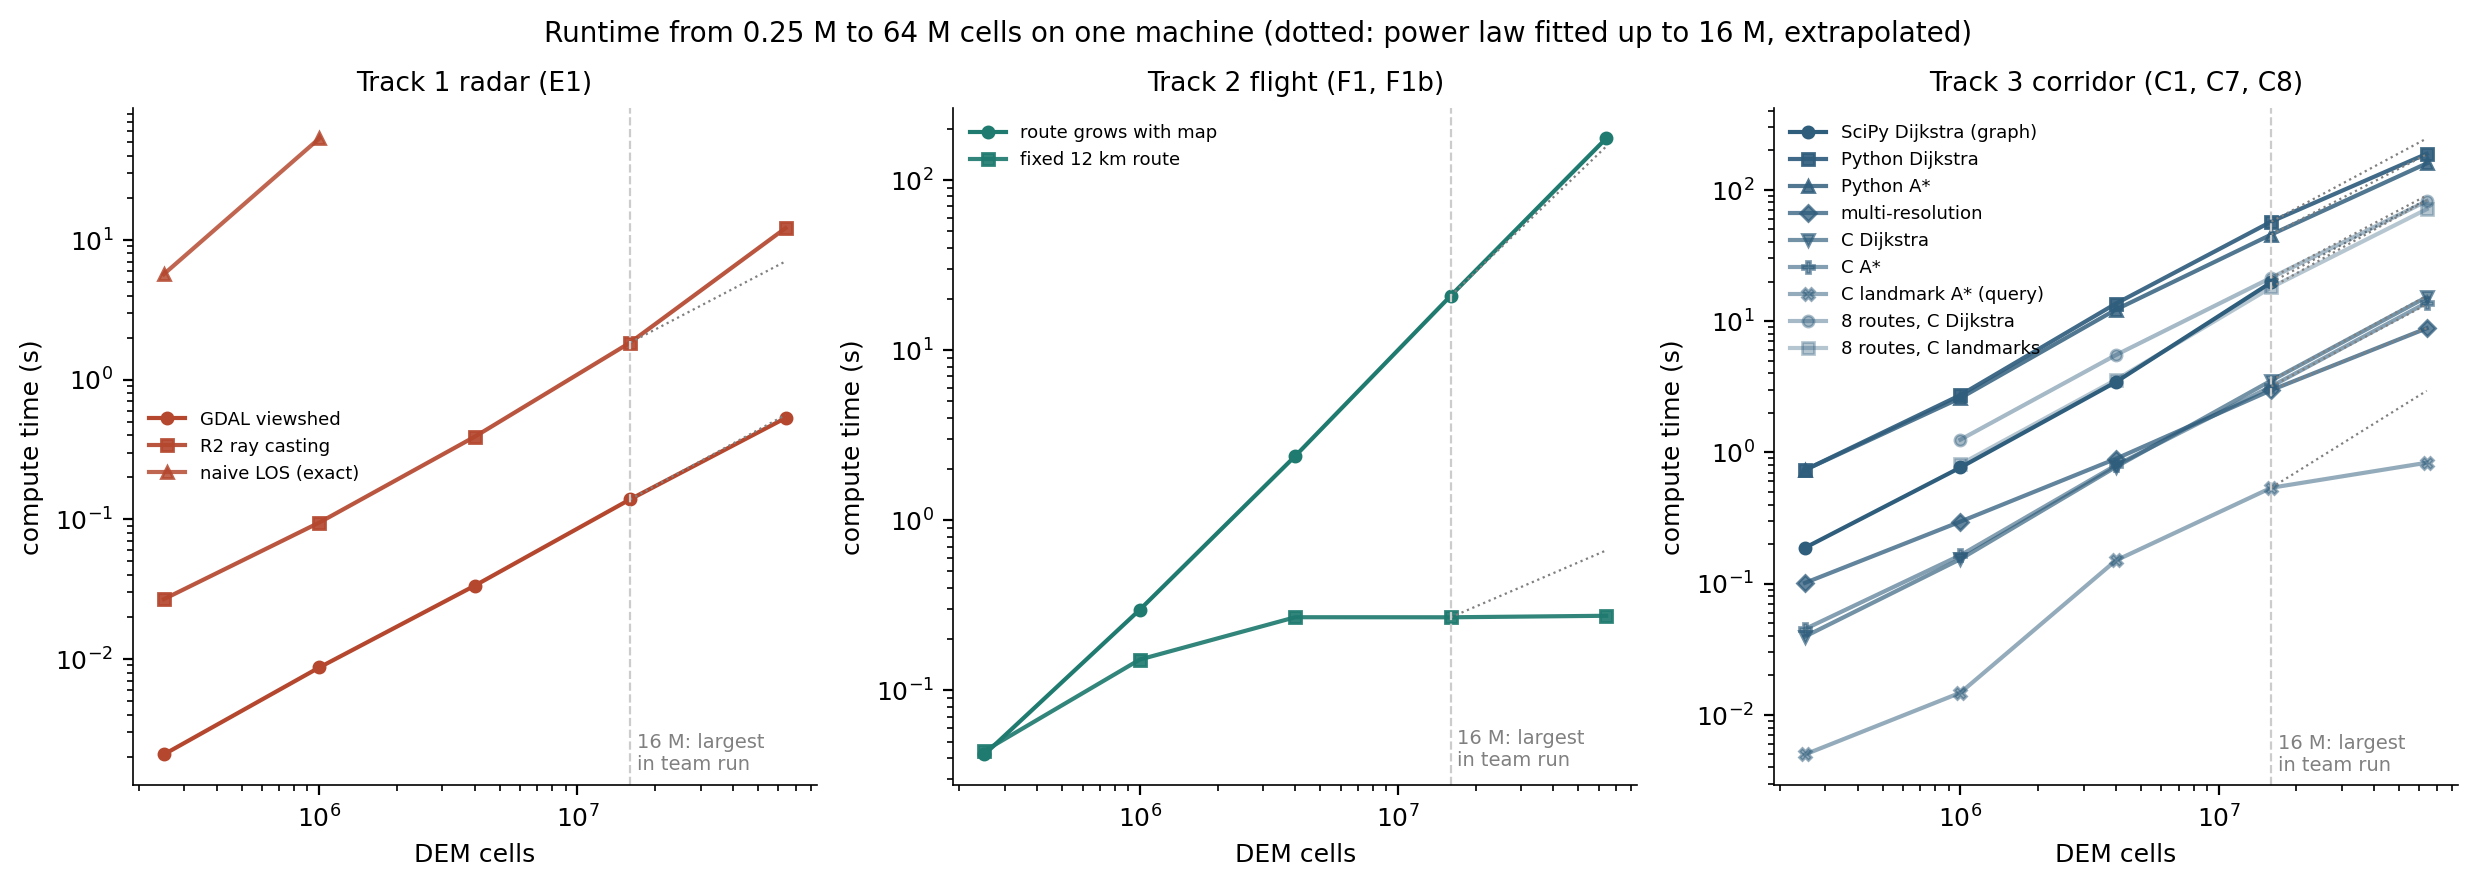
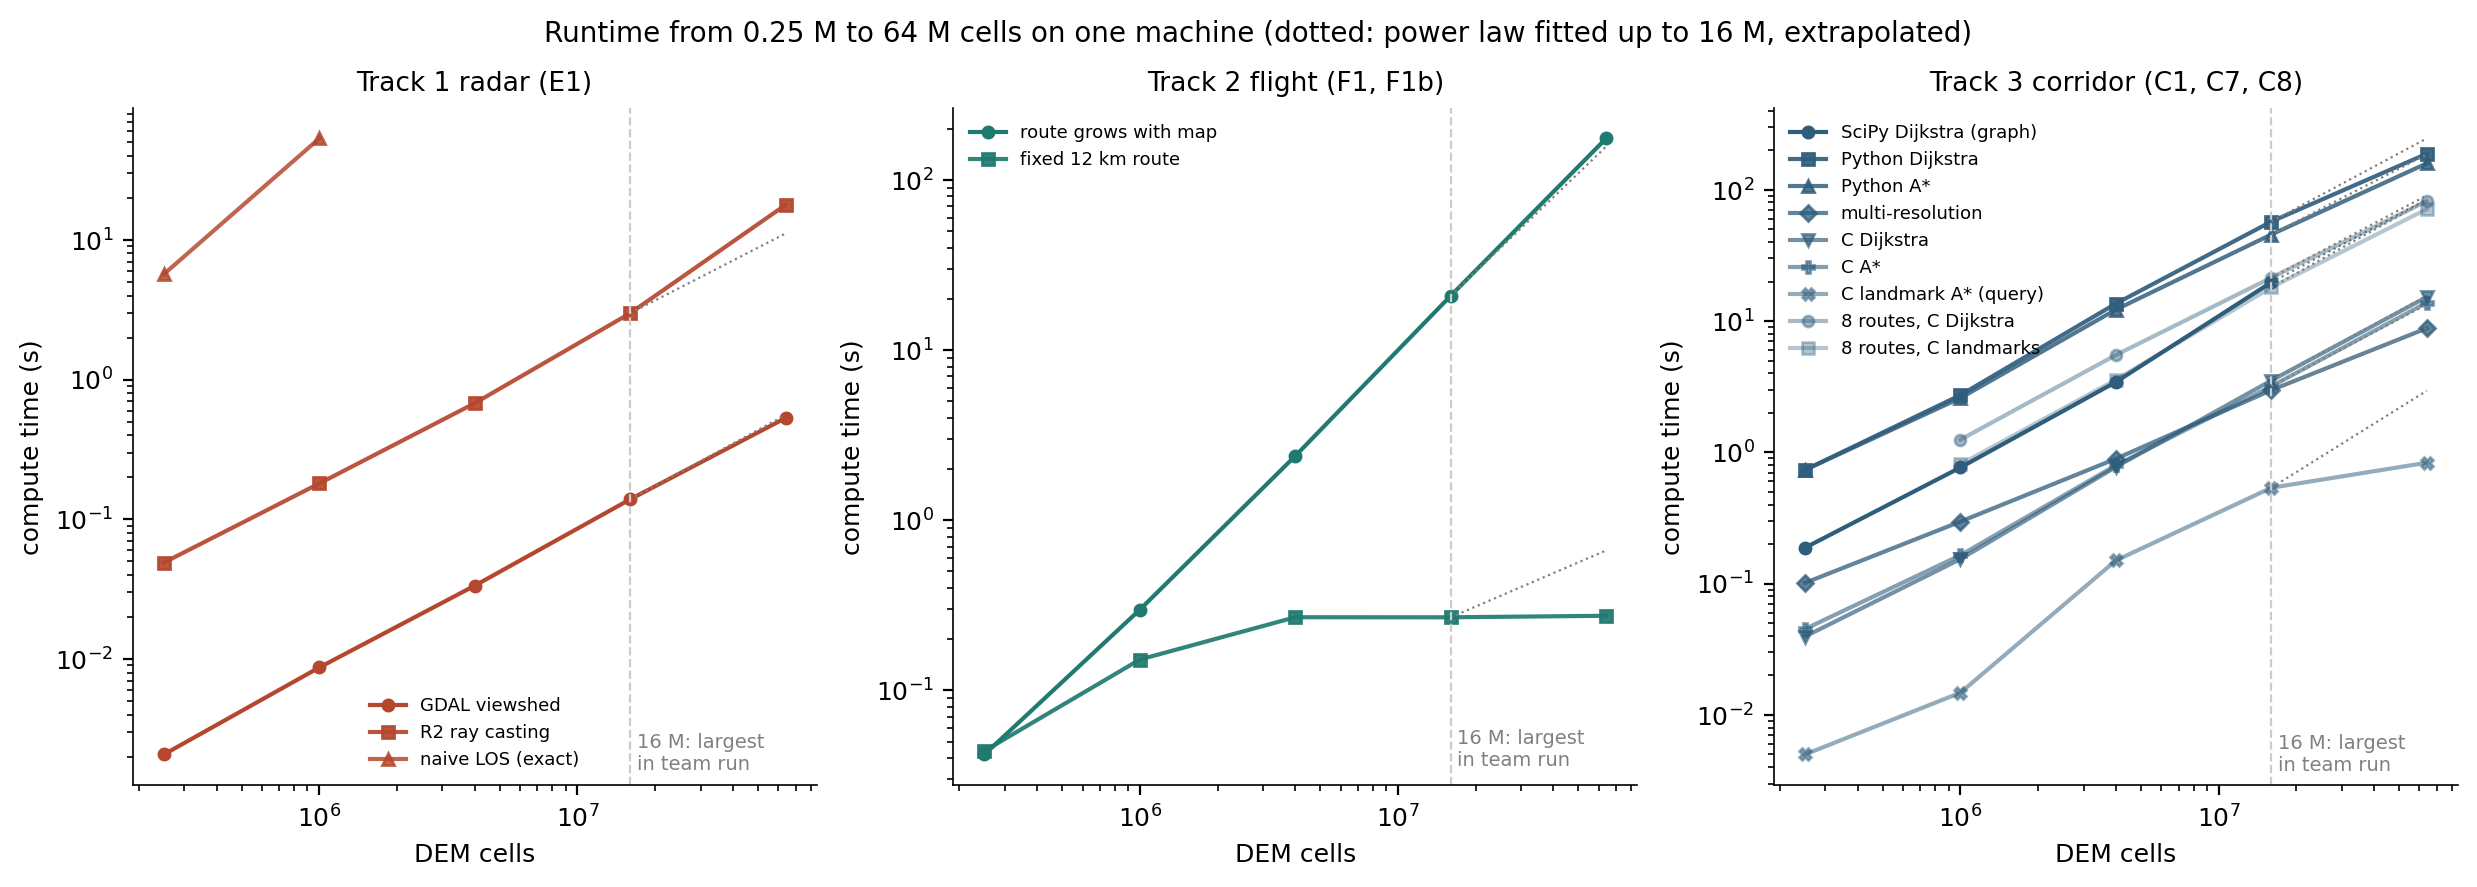
Re-run Track 1 R2 benchmarks with the fixed R2 on the laptop (E1 to 64M, E2, E5); old R2 rows kept in benchmark_raw_r2_old.csv; 64M analysis redone

Changed region(s): [[0.0622, 0.4262, 0.2176, 0.7001], [0.2176, 0.2131, 0.3419, 0.4262], [0.1554, 0.7914, 0.2176, 0.8828]]

diff --git a/radar/rerun_r2.py b/radar/rerun_r2.py
@@ -1,0 +1,37 @@
+"""Re-run the R2 timings after the R2 fix (each cell takes the ray closest to its centre).
+
+E1 (size, 0.25-64 M cells): R2 only.  The old-rule R2 rows are moved to benchmark_raw_r2_old.csv first,
+so analysis sees only the fixed R2 and the old numbers stay for comparison.
+E2 (range) and E5 (clipping): R2 and GDAL, so both are on the same machine.
+
+Run:  OPTICS_RESULTS=results/linux64 OPTICS_BENCH_SIZES=500,1000,2000,4000,8000 python3 -m radar.rerun_r2
+"""
+import csv
+
+from common.bench import run_series
+from radar.benchmark import CSV, OUT, e1, e2, e5
+
+
+def move_old_r2():
+    if not CSV.exists():
+        return
+    rows = list(csv.DictReader(open(CSV)))
+    old = [r for r in rows if r["algorithm"] == "r2" and r["experiment"] == "E1_size"]
+    if not old:
+        return
+    keep = [r for r in rows if r not in old]
+    oldp = OUT / "benchmark_raw_r2_old.csv"
+    for path, rs in ((oldp, old), (CSV, keep)):
+        with open(path, "w", newline="") as fh:
+            w = csv.DictWriter(fh, fieldnames=list(rows[0])); w.writeheader(); w.writerows(rs)
+    print(f"moved {len(old)} old R2 rows to {oldp.name}")
+
+
+if __name__ == "__main__":
+    OUT.mkdir(parents=True, exist_ok=True)
+    move_old_r2()
+    jobs = [j for j in e1(5) if j["algorithm"] == "r2"] + e2(5) + e5(5)
+    for j in jobs:
+        if "algorithm_impl" in j:
+            j["impl"] = j.pop("algorithm_impl")
+    run_series("radar.jobs", jobs, CSV, repeats=5)
